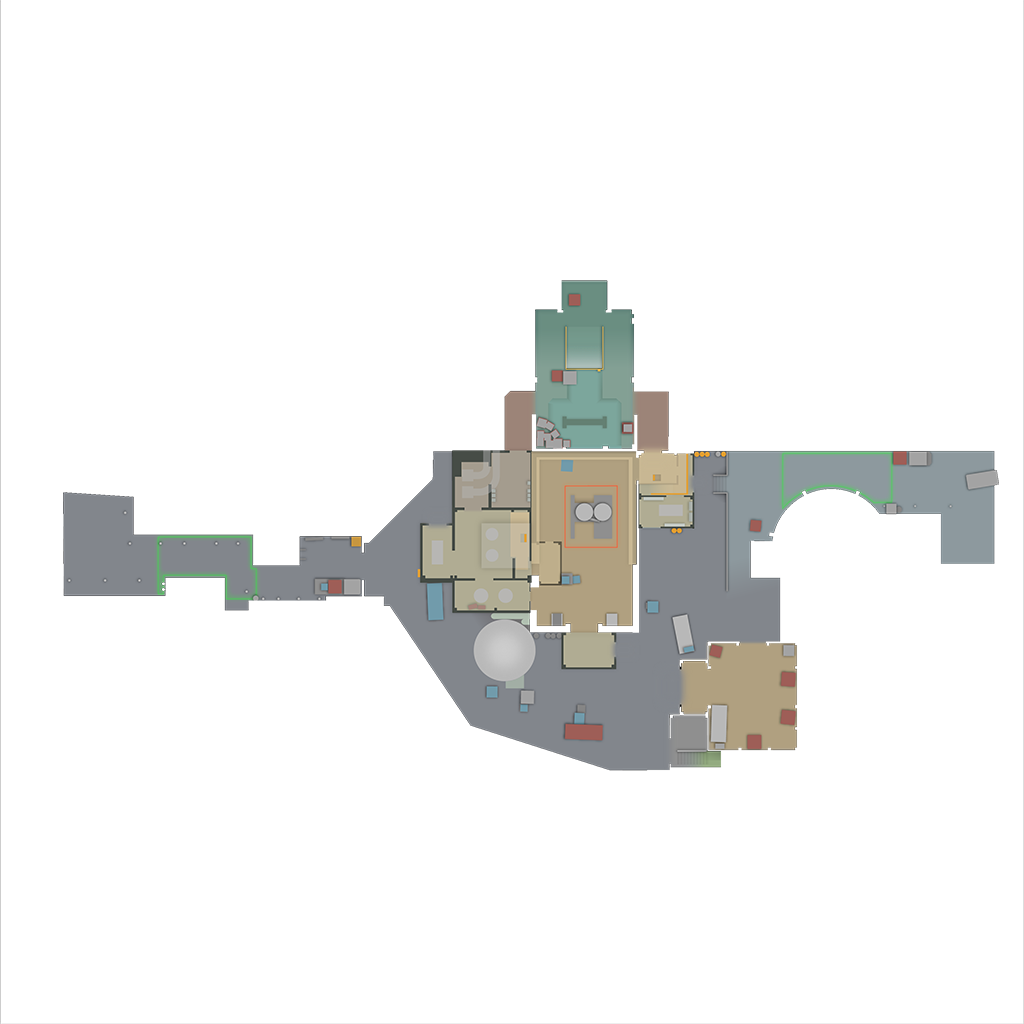
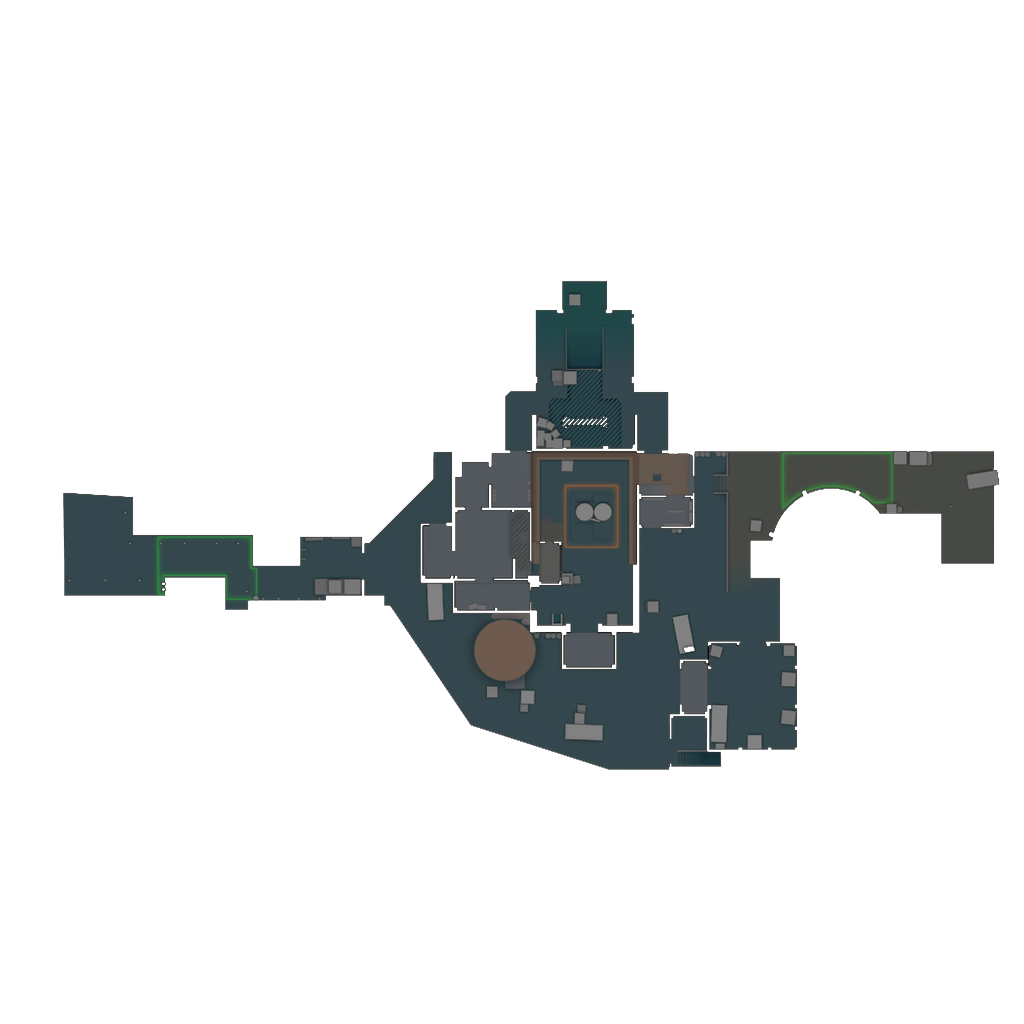
feat(radar): substitui radares da Nuke pelas imagens dos dois andares
Troca nuke.png (superior) e nuke_lower.png (inferior) pelas imagens novas
fornecidas pelo usuário, sem distorção. Cada imagem foi reduzida pelo fator
0,625 para 974×530 e colocada num canvas 1024×1024 transparente em (42, 260),
calibração medida contra o radar anterior (sobreposição de silhueta de 98%).
Assim as coordenadas normalizadas gravadas e o recorte em mapLevels.ts
permanecem válidos, sem alteração de código.

Origem e licença das novas imagens não verificadas; registrado em ATTRIBUTION.md.
Checkpoint em docs/continuity/frontend.md.

Changed region(s): [[0.0625, 0.25, 1.0, 0.75]]

diff --git a/docs/continuity/frontend.md b/docs/continuity/frontend.md
@@ -1,3 +1,47 @@
+# Radares da Nuke substituídos pelas imagens fornecidas — 11/11/2026
+
+Estado: concluído localmente e validado; commit e PR pendentes no momento deste registro.
+
+## Objetivo e pedido atual
+
+Trocar exclusivamente `frontend/public/maps/valve/nuke.png` (andar superior) e `nuke_lower.png` (andar inferior) pelas imagens
+novas fornecidas pelo usuário (1558×848, fundo transparente), preservando alternância de andares, radar ampliado, biblioteca,
+editor, Solo Exec e as coordenadas gravadas. Sem alterar banco, migrations, Supabase, Storage nem outros mapas. Sem merge e sem deploy.
+
+## Localização do trabalho
+
+- Branch: `feat/nuke-radares-novos`, worktree `F:/projetos/nadesCs2-nuke-radares`.
+- Base: `origin/main` em `07cc294` (PR #14 já integrado).
+- Push: pendente. Nada enviado ao remoto neste registro.
+- Arquivos alterados (sem commit ainda): `frontend/public/maps/valve/nuke.png`, `frontend/public/maps/valve/nuke_lower.png`,
+  `frontend/public/maps/valve/ATTRIBUTION.md`, `docs/continuity/frontend.md`.
+
+## Decisões
+
+- Calibração medida, não presumida: escala uniforme 0,625 e deslocamento (42, 260) dentro do quadro 1024×1024 antigo.
+  Sobreposição da silhueta com o `nuke.png` antigo: 98%. Limites do conteúdo: 63–998 × 280–769 antes e 63–998 × 281–769 depois.
+  O andar inferior fecha com a silhueta do superior (IoU 0,964).
+- Adaptação: imagem reduzida proporcionalmente para 974×530 (sem distorção), colocada em canvas 1024×1024 com margens
+  transparentes. Com isso as coordenadas normalizadas e `RadarViewport` em `domain/mapLevels.ts` continuam válidas sem alteração de código.
+- Origem e licença das imagens novas não verificadas; registrado em `ATTRIBUTION.md`.
+
+## Validação
+
+- `npm run typecheck`: PASS. `npm run build`: PASS. `npm test` (vitest): 15 arquivos, 83 testes PASS.
+- `npx playwright test --project=desktop --project=mobile`: 72/72 PASS (inclui nuke-levels: marcadores em 320/390 px, desktop,
+  ambos os andares e radar ampliado; regressão dos sete mapas).
+- Capturas antes/depois (fora do repositório): pasta `C:/Users/felip/AppData/Local/Temp/claude/af9c3bf5e0d969f0/3180eb7a-cf75-4f93-9815-c917054abceb/scratchpad/shots/`
+  (`antes_*` e `depois_*`, andares 1 e 2, desktop e 390 px).
+- Não executado: revisão visual humana no celular real e teste de cadastro/edição em ambiente API com Supabase. O Playwright
+  rodou em modo demo. Não foram tocados Supabase nem Storage.
+
+## Retomar daqui
+
+1. `git -C F:/projetos/nadesCs2-nuke-radares status` e confirmar a branch `feat/nuke-radares-novos`.
+2. Se ainda não commitado: commitar os quatro arquivos listados, dar push com `-u` e abrir o PR contra `main`.
+
+---
+
 # Migration map_levels APLICADA em produção — 11/11/2026 03:13 UTC
 
 Autorizada pelo responsável e aplicada uma única vez com apply_migration no projeto kdyzxxgzvgiffluyjjxu; registrada pelo Supabase como 20261111031252 map_levels (arquivos da migration e do rollback renomeados no repositório, conteúdo idêntico). Pré e pós-checagens aprovadas: 15 granadas, 21 mídias, 17 objetos, hash das linhas de grenades, policies, grants, triggers e RLS iguais ao backup release-20261111-nuke-premigration; colunas origin_level/target_level criadas e vazias; checks validados. Sem alterar dados nem limpar Storage. PR #14 segue aberto, SEM merge e SEM deploy (frontend/backend publicados ainda ignoram as colunas novas). Próximo: autorização para o merge do PR #14, conferência dos deployments pcdnades e pcdnades-api e smoke na Nuke.

diff --git a/frontend/public/maps/valve/ATTRIBUTION.md b/frontend/public/maps/valve/ATTRIBUTION.md
@@ -12,7 +12,15 @@ Servidos localmente; nenhum hotlink ou download em runtime.
 - O andar inferior da Nuke (`nuke_lower.png`) tem a mesma origem, tamanho e calibração do `nuke.png` (mesmos 1024×1024, mesmo
   sistema de coordenadas): um ponto normalizado (x, y) cai no mesmo lugar nos dois arquivos. Por isso as granadas gravam
   apenas qual andar é usado, sem duplicar nem recalcular coordenadas.
-- Os arquivos não foram editados. O recorte exibido na interface é só de apresentação (ver `domain/mapLevels.ts`).
+- **Substituição de 11/11/2026 (somente Nuke):** `nuke.png` e `nuke_lower.png` passaram a ser as imagens fornecidas pelo
+  usuário (andar superior e inferior, originais 1558×848 com fundo transparente). **Origem e licença dessas imagens não foram
+  verificadas pelo projeto**; são de responsabilidade de quem as forneceu até que se confirme sua procedência.
+  - Adaptação: cada imagem foi reduzida proporcionalmente (fator 0,625, sem distorção) para 974×530 e colocada num canvas
+    1024×1024 transparente, na posição (42, 260). Essa calibração foi medida contra o `nuke.png` anterior (sobreposição da
+    silhueta de 98%; limites do conteúdo 63–998 × 280–769 antes e depois). Assim as coordenadas normalizadas gravadas
+    continuam válidas sem alteração e `domain/mapLevels.ts` não muda.
+  - Os arquivos anteriores continuam no histórico git (commit `a8aa9ee`).
+- O recorte exibido na interface é só de apresentação (ver `domain/mapLevels.ts`).
 - Os radares podem estar defasados em relação a atualizações recentes da Nuke. **Antes de divulgar amplamente, confirme com
   o jogo atual** e, se houver mudança de enquadramento, as coordenadas existentes precisam de revisão.
 
@@ -30,7 +38,9 @@ Servidos localmente; nenhum hotlink ou download em runtime.
 
 | Arquivo | Bytes | SHA256 |
 | --- | ---: | --- |
-| nuke.png | 80130 | 6230346d3ce969006062fbd02220b083245f621ef366ce26a42dc27a80120bd0 |
-| nuke_lower.png | 80046 | 040c958f141d0365ca9125388bc20228b0df0ac6abd1fe78d743ecfa1be4bb64 |
+| nuke.png (andar superior, atual) | 112279 | 42be92a7884b0d9471c00c72f24154257675fd33b08b40dd41c81378daf86e29 |
+| nuke_lower.png (andar inferior, atual) | 104236 | 7383299696fb52c4d2b9dff3f65040f8d49ae3b4671f73ecf48383d1cba39a4b |
+
+Anteriores (substituídos em 11/11/2026): `nuke.png` 80130 bytes, SHA256 `6230346d…20bd0`; `nuke_lower.png` 80046 bytes, SHA256 `040c958f…4bb64`.
 
 Counter-Strike 2 é marca da Valve Corporation.
